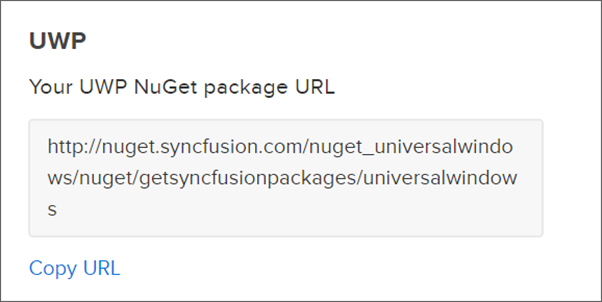
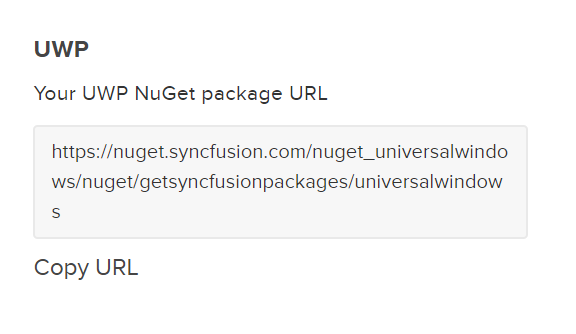
EXT-3461-NuGet-Feed-Changes

diff --git a/uwp/NuGet-Packages.md b/uwp/NuGet-Packages.md
@@ -22,7 +22,7 @@ You should get the private Syncfusion UWP NuGet feed URL to install or upgrade t
 
 2. Click the Copy URL label under UWP platform to copy the Syncfusion UWP platform NuGet feed to clipboard or directly use the following URL: 
 
-    [http://nuget.syncfusion.com/nuget_universalwindows/nuget/getsyncfusionpackages/universalwindows](http://nuget.syncfusion.com/nuget_universalwindows/nuget/getsyncfusionpackages/universalwindows) 
+    [https://nuget.syncfusion.com/nuget_universalwindows/nuget/getsyncfusionpackages/universalwindows](https://nuget.syncfusion.com/nuget_universalwindows/nuget/getsyncfusionpackages/universalwindows) 
 
     ![](NuGet_Packages_Images/img1.png)
 
@@ -40,7 +40,7 @@ You should get the private Syncfusion UWP NuGet feed URL to install or upgrade t
 
     **Name:** Name of the package listed in the available package sources.
     **Source:** Syncfusion UWP NuGet Feed URL      
-    [http://nuget.syncfusion.com/nuget_universalwindows/nuget/getsyncfusionpackages/universalwindows](http://nuget.syncfusion.com/nuget_universalwindows/nuget/getsyncfusionpackages/universalwindows).
+    [https://nuget.syncfusion.com/nuget_universalwindows/nuget/getsyncfusionpackages/universalwindows](https://nuget.syncfusion.com/nuget_universalwindows/nuget/getsyncfusionpackages/universalwindows).
 
 5.	Click the **Update** button to add the name and source details to package sources. 
 
@@ -88,7 +88,7 @@ To reference the Syncfusion UWP component using the Package Manager Console as N
     Install-Package Syncfusion.Calculate.UWP46
 
     #install specified package in default project with specified Package Source
-    Install-Package Syncfusion.Calculate.UWP46-Source “http://nuget.syncfusion.com/nuget_universalwindows/nuget/getsyncfusionpackages/universalwindows”
+    Install-Package Syncfusion.Calculate.UWP46-Source “https://nuget.syncfusion.com/nuget_universalwindows/nuget/getsyncfusionpackages/universalwindows”
 
     #install specified package in specified project 
     Install-Package Syncfusion.Calculate.UWP46-ProjectName SyncfusionDemoApplication
@@ -118,7 +118,7 @@ The NuGet Command Line Interface (CLI), nuget.exe, provides the full extent of N
     **For example:**
 
     ~~~
-    nuget.exe Sources Add –Name “Syncfusion Source” –Source “http://nuget.syncfusion.com/nuget_universalwindows/nuget/getsyncfusionpackages/universalwindows”
+    nuget.exe Sources Add –Name “Syncfusion Source” –Source “https://nuget.syncfusion.com/nuget_universalwindows/nuget/getsyncfusionpackages/universalwindows”
     ~~~
 
 ### NuGet installation
@@ -142,7 +142,7 @@ nuget.exe install “Syncfusion.Calculate.UWP46”
 nuget.exe install “C:\Users\SyncfusionApplication\package.config”
 
 #install specific Syncfusion NuGet package with specific Syncfusion Package Source
-nuget.exe install “Syncfusion.Calculate.UWP46”  –Source “http://nuget.syncfusion.com/nuget_universalwindows/nuget/getsyncfusionpackages/universalwindows”
+nuget.exe install “Syncfusion.Calculate.UWP46”  –Source “https://nuget.syncfusion.com/nuget_universalwindows/nuget/getsyncfusionpackages/universalwindows”
 ~~~
 
 ## Upgrading NuGet packages
@@ -185,7 +185,7 @@ To update the installed Syncfusion UWP NuGet packages using the Package Manager 
     Update-Package Syncfusion.Calculate.UWP46
 
     #Update specified package in default project with specified Package Source
-    Update-Package Syncfusion.Calculate.UWP46 –Source “http://nuget.syncfusion.com/nuget_universalwindows/nuget/getsyncfusionpackages/universalwindows”
+    Update-Package Syncfusion.Calculate.UWP46 –Source “https://nuget.syncfusion.com/nuget_universalwindows/nuget/getsyncfusionpackages/universalwindows”
 
     #Update specified package in specified project 
     Update-Package Syncfusion.Calculate.UWP46 -ProjectName SyncfusionDemoApplication
@@ -223,7 +223,7 @@ Using the NuGet CLI, all the NuGet packages in the project can be updated to the
     nuget update “C:\Users\SyncfusionApplication\package.config”
 
     #Update all NuGet packages from specified Packages Source
-    nuget update -Source “http://nuget.syncfusion.com/nuget_universalwindows/nuget/getsyncfusionpackages/universalwindows”
+    nuget update -Source “https://nuget.syncfusion.com/nuget_universalwindows/nuget/getsyncfusionpackages/universalwindows”
     ~~~
 
    
